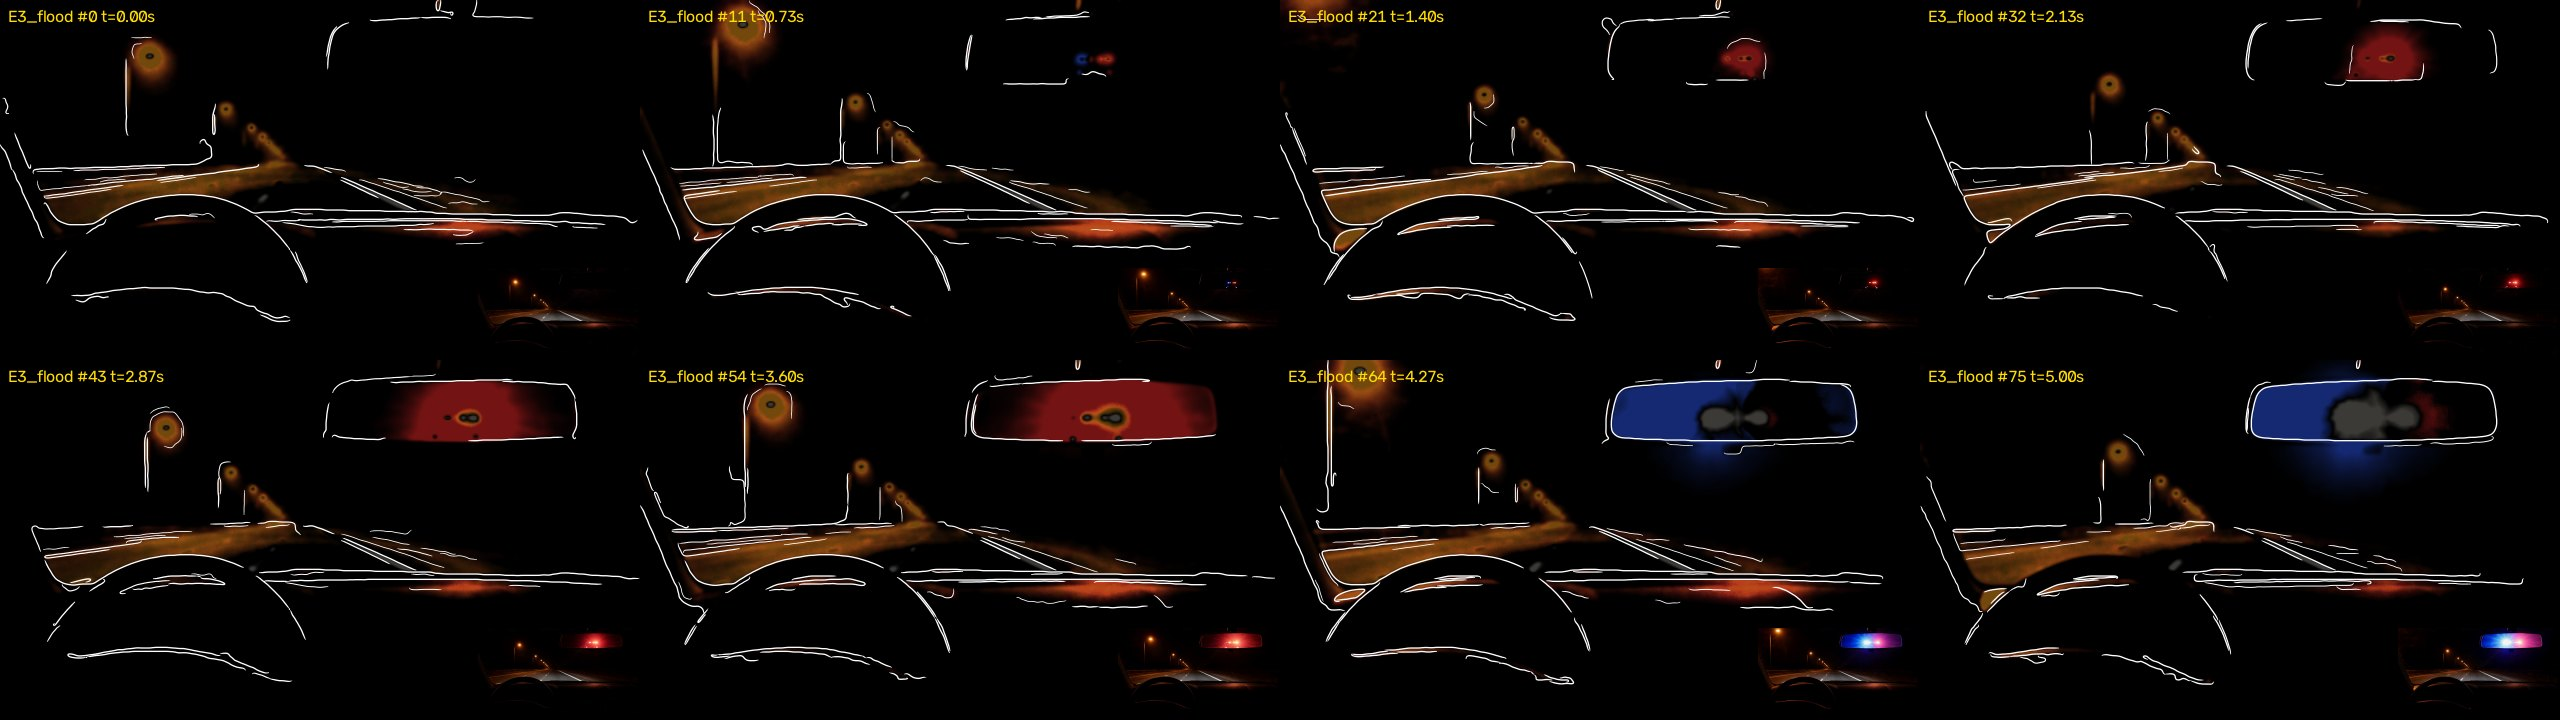
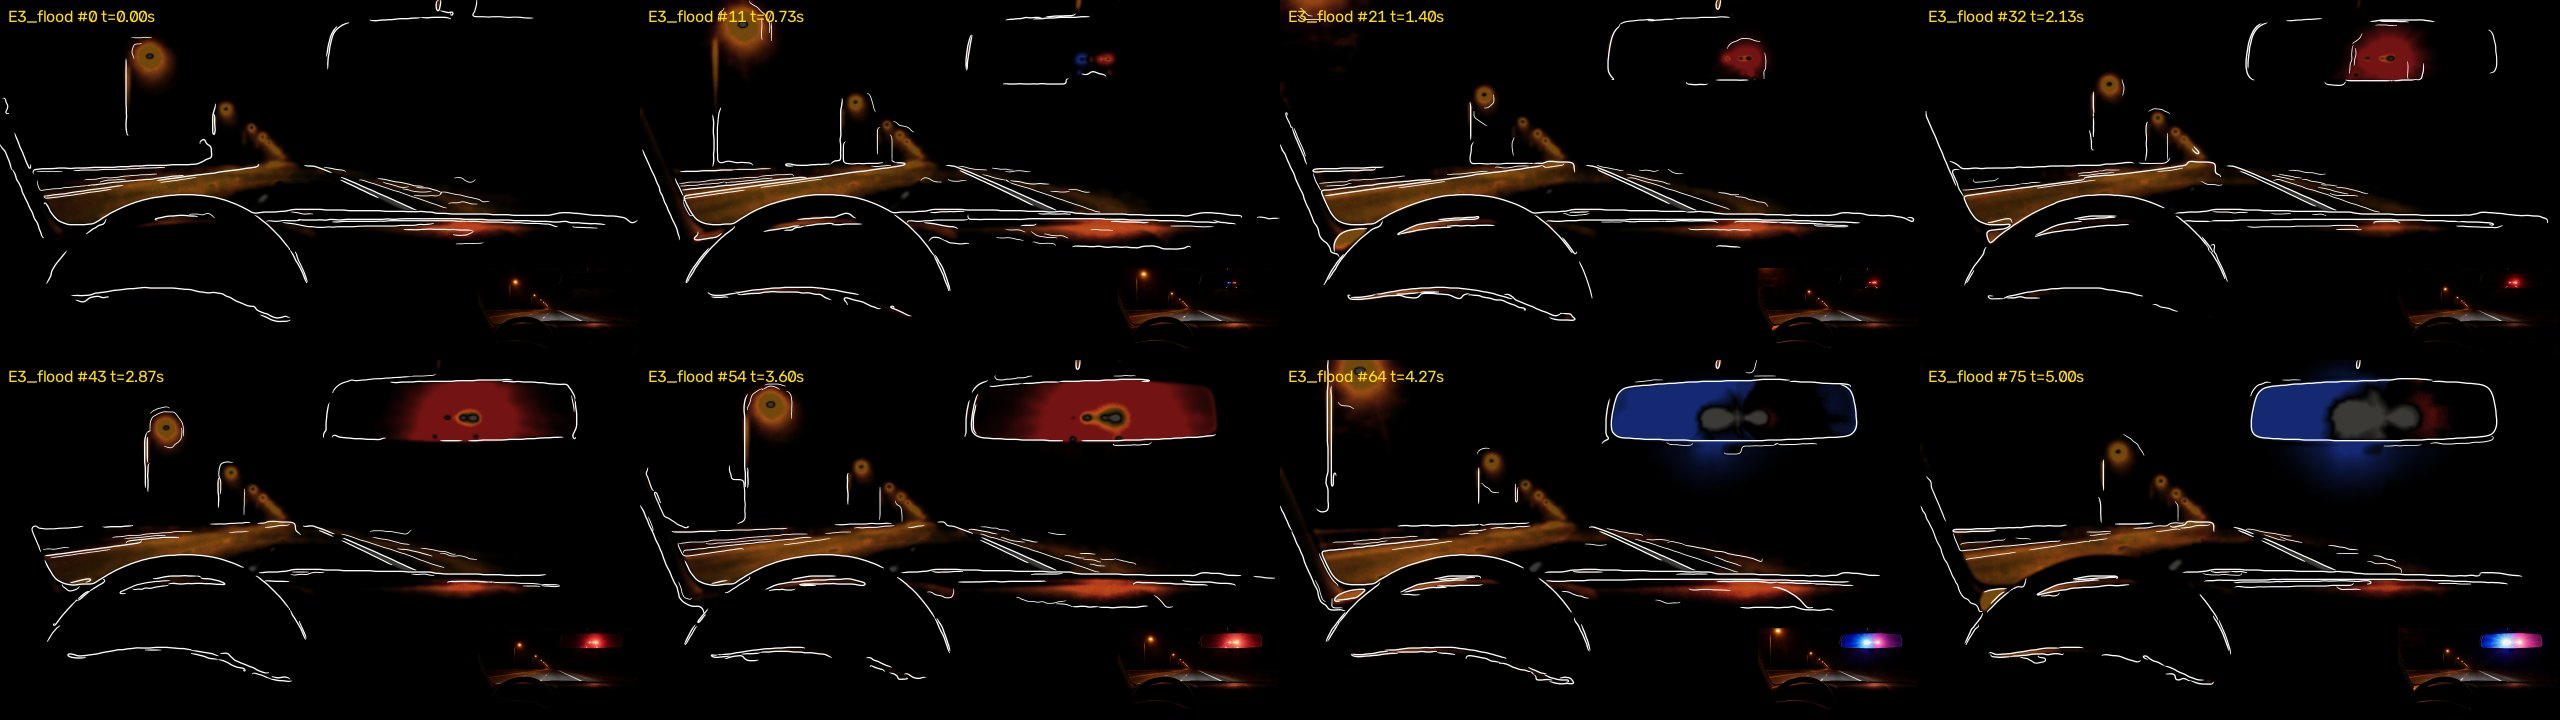
Jade first frames (real-face paste-back), J1/J6 test clips, lipsync findings
Claude-Session: https://claude.ai/code/session_01QH8JxH6iaaco1ynhTZZBdC

diff --git a/render/src/shots.js b/render/src/shots.js
@@ -57,6 +57,7 @@ export function buildShots(T) {
   // H4: aerial LSD self-drawing as one pen stroke; THEOREM / PROOF
   C('H4_theorem', db(5), v1, [ink,
     { type: 'world', roto: R.aerial, alpha: 0.5, lights: 0.4, cam: { from: [0.5, 0.5, 1.0], to: [0.48, 0.55, 1.12] } },
+    { type: 'car', roto: R.aerial, view: 'chase', lights: 'tail', cam: { from: [0.5, 0.5, 1.0], to: [0.48, 0.55, 1.12] }, offset: 4 },
     { type: 'pathdraw', progress: e => easeInOutCubic(e.u), width: 5 },
     { type: 'cm', lead: 'Theorem.', text: 'She makes it home.', x: 420, y: 520, size: 112 },
     { type: 'cm', lead: 'Proof.', text: 'By exhaustion.', x: 420, y: 690, size: 112, at: 1.4 },
@@ -94,6 +95,8 @@ export function buildShots(T) {
   ], { hud: hud(1, 0.0), fx: { heart: 0.3 } });
   C('B2_pullover', L(3).start, T.beatBefore(men), [ink,
     { type: 'world', roto: R.pull, alpha: 1, lights: 1, cam: { from: [0.45, 0.6, 1.0], to: [0.42, 0.66, 1.35], ease: easeOutCubic } },
+    { type: 'car', roto: R.pull, view: 'side', lights: 'brake', rot: -0.35, cam: { from: [0.45, 0.6, 1.0], to: [0.42, 0.66, 1.35], ease: easeOutCubic } },
+    { type: 'car', when: e => !String(e.shot.params.layers[1].roto).startsWith('Epull'), view: 'side', lights: 'brake', rot: -0.33, x: e => lerp(820, 760, easeOutCubic(e.u)), y: e => lerp(820, 880, easeOutCubic(e.u)), w: e => lerp(420, 560, easeOutCubic(e.u)) },
     { type: 'sirens', side: 'pair', base: 0.15, peak: 0.35 },
     { type: 'annotation', n: 1, move: 'pull over', nag: '?!', x: 150, y: 960, size: 56, at: 0.3 },
     { type: 'tree', seed: 7, depth: 4, x: 1420, y: 340, w: 380, h: 300, progress: e => 0.25 * e.u, leafSize: 30, onType: true, alpha: 0.9 },
@@ -319,7 +322,8 @@ export function buildShots(T) {
   C('N3_collapse', n3, n4, [ink, { type: 'collapse', n: 1100, progress: e => smooth(0.05, 0.9, e.u) }, { type: 'kickflash', color: PAL.bone, amount: 0.25 }],
     { hud: { attempt: 3, ok: true, tc: true, eval: t => lerp(5, 40, clamp((t - n3) / (n4 - n3))) }, fx: { kick: 1, strobe: 0.5 } });
   // N4: aerial, brighter and short: her light draws the winning line; the ghost cars of attempts 1/2 peel off and dissolve
-  C('N4_aerial', n4, n5, [ink, { type: 'world', roto: R.aerial, alpha: 1, lights: 0.55, cam: { from: [0.5, 0.5, 1.15], to: [0.5, 0.52, 1.0] } },
+  C('N4_aerial', n4, n5, [ink, { type: 'world', roto: R.aerial, alpha: 1, lights: 0.55, cam: { from: [0.5, 0.5, 1.15], to: [0.5, 0.52, 1.0] }, offset: 2.5 },
+    { type: 'car', roto: R.aerial, view: 'chase', lights: 'tail', trail: true, cam: { from: [0.5, 0.5, 1.15], to: [0.5, 0.52, 1.0] }, offset: 2.5 },
     { type: 'pathdraw', progress: e => e.u, width: 9, color: PAL.cyan },
     { type: 'ghostcar', x: e => lerp(820, 300, e.u), y: e => lerp(420, 980, e.u), scale: e => lerp(0.3, 0.8, e.u), alpha: e => 0.95 * (1 - e.u), color: PAL.red },
     { type: 'ghostcar', x: e => lerp(900, 1500, e.u), y: e => lerp(420, 1000, e.u), scale: e => lerp(0.3, 0.8, e.u), alpha: e => 0.95 * (1 - e.u), color: PAL.bone }],
@@ -327,7 +331,8 @@ export function buildShots(T) {
   // N5: pure road, pure speed; the HUD falls away; inserts every other bar
   C('N5_speed', n5, n6, lane({ words: ['I', 'DREAMT'] }), { hud: { attempt: 3, ok: true, tc: true, eval: Infinity, alpha: 1 }, fx: drive });
   ['pages', 'jade', 'scale', 'jade'].forEach((k, j) => C(`N5_${k}${j}`, DB(17 + 2 * j), DB(18 + 2 * j), insert(k, j), { hud: j < 2 ? { attempt: 3, ok: true, eval: Infinity } : null, fx: drive }));
-  C('N6_lake', n6, qed, [ink, { type: 'world', roto: R.aerial, alpha: 1, lights: 0.5, cam: { from: [0.45, 0.6, 1.5], to: [0.5, 0.5, 0.82] } },
+  C('N6_lake', n6, qed, [ink, { type: 'world', roto: R.aerial, alpha: 1, lights: 0.5, cam: { from: [0.45, 0.6, 1.5], to: [0.5, 0.5, 0.82] }, loop: false },
+    { type: 'car', roto: R.aerial, view: 'chase', lights: 'tail', trail: true, cam: { from: [0.45, 0.6, 1.5], to: [0.5, 0.5, 0.82] }, loop: false },
     { type: 'tree', seed: 7, depth: 4, progress: 1, lit: 1, alpha: 0.6, x: 180, y: 560, w: 1560, h: 980, litColor: PAL.cyan },
     { type: 'pathdraw', progress: 1, width: 9, head: false, color: PAL.cyan }], { fx: { kick: 0.5, heart: 0.2, downInvert: 2, jerks: [ev('braam', 8)] } });
   C('N7_qed', qed, end, [{ type: 'qedpage' }], { fx: { heart: 0.15, jerks: [qed] } }, { post: { bloom: 0, vignette: 0.12 } });

diff --git a/render/src/car.js b/render/src/car.js
@@ -1,0 +1,57 @@
+// car.js: her car, a white 2001 Acura TL, drawn from the assets/car kit (6 views of unit-box polylines + clip tracks).
+// The Seedance car is erased (dilated track bbox filled with ink) and ours is drawn on top: steady body silhouette,
+// lighter boil on detail strokes, siren-red tail lights with glow, cold-white headlights.
+import { DW, DH, PAL, clamp, hash, hsig, rgba } from './core.js';
+
+const ROOT = '../assets/car';
+const VIEWS = ['chase', 'rear34', 'rear', 'side', 'front34', 'top'];
+const K = { views: {}, tracks: {} };
+
+export async function load() {
+  await Promise.all(VIEWS.map(async v => { try { const r = await fetch(`${ROOT}/${v}/contours.json`); if (r.ok) K.views[v] = await r.json(); } catch (e) { /* kit missing */ } }));
+  await Promise.all(['E1', 'Epull'].map(async c => { try { const r = await fetch(`${ROOT}/tracks/${c}.json`); if (r.ok) K.tracks[c] = await r.json(); } catch (e) { /* none */ } }));
+  return K;
+}
+export const has = v => !!K.views[v];
+export function trackFor(rotoId) { const base = String(rotoId || '').replace(/^_auto\//, '').replace(/^plate_.*/, ''); return K.tracks[base] || null; }
+
+// bbox (design px) of the tracked car at clip time ct, mapped through the world's camera rect (source 1280x720)
+export function trackBox(track, ct, rect) {
+  const fr = track.frames, f = Math.max(0, Math.min(fr.length - 1, Math.round(ct * (track.fps || 24))));
+  let e = fr[f]; if (!e || !e.visible) return null;
+  const [sw, sh] = track.size || [1280, 720], b = e.bbox.slice();
+  if (track === K.tracks.Epull && f <= 20) { b[1] -= 40; b[3] -= 40; }   // known lock on the wet-road reflection
+  return { x0: rect.x + b[0] / sw * rect.w, y0: rect.y + b[1] / sh * rect.h, x1: rect.x + b[2] / sw * rect.w, y1: rect.y + b[3] / sh * rect.h };
+}
+
+// draw a view so its extent fits width w, bottom-centre at (cx, by). o: {color, alpha, seed, outline (ghost), lights:'tail'|'head'|'brake'|null, rot, minimal, fill}
+export function drawView(g, view, cx, by, w, o = {}) {
+  const V = K.views[view]; if (!V) return false;
+  const s = w / V.extent[0], ax = V.anchor_ground_center[0], ay = V.anchor_ground_center[1];
+  const col = o.color || PAL.bone, a = o.alpha ?? 1, seed = o.seed ?? 0, minimal = o.minimal ?? (w < 90);
+  g.save(); g.translate(cx, by); if (o.rot) g.rotate(o.rot); g.translate(-ax * s, -ay * s);
+  g.lineJoin = 'round'; g.lineCap = 'round';
+  const path = (pts, jit, k) => { g.beginPath(); pts.forEach((p, i) => { const jx = jit ? hsig(seed, k, i) * jit : 0, jy = jit ? hsig(seed, k, i, 7) * jit : 0; const x = p[0] * s + jx, y = p[1] * s + jy; i ? g.lineTo(x, y) : g.moveTo(x, y); }); };
+  const F = V.features;
+  // faint white-paint fill so the car reads as WHITE against the ink
+  const body = F.find(f => f.type === 'body');
+  if (body && !o.outline) { path(body.pts, 0, 0); g.closePath(); g.fillStyle = rgba(col, (o.fill ?? 0.1) * a); g.fill(); }
+  F.forEach((f, k) => {
+    const t = f.type;
+    if (minimal && !(t === 'body' || t === 'taillight' || t === 'window')) return;
+    if (t === 'taillight' || t === 'headlight') {
+      const lit = (t === 'taillight' && (o.lights === 'tail' || o.lights === 'brake')) || (t === 'headlight' && o.lights === 'head');
+      path(f.pts, 0, k); if (f.closed) g.closePath();
+      if (lit && !o.outline) {
+        g.save(); g.fillStyle = t === 'taillight' ? PAL.red : '#F4F1EA'; g.shadowColor = g.fillStyle; g.shadowBlur = Math.max(6, w * 0.06) * (o.lights === 'brake' ? 1.6 : 1); g.globalAlpha = a; g.fill(); g.restore();
+      } else { g.strokeStyle = rgba(o.outline ? col : (t === 'taillight' ? PAL.red : col), a); g.lineWidth = Math.max(1.5, w * 0.006); g.stroke(); }
+      return;
+    }
+    const isDetail = t === 'detail' || t === 'lower_dark';
+    path(f.pts, isDetail ? 0.6 : 0.15, k); if (f.closed) g.closePath();
+    g.strokeStyle = rgba(col, a * (isDetail ? 0.5 : 1)); g.lineWidth = Math.max(1.5, w * (t === 'body' ? 0.009 : 0.006)) * (o.outline ? 1.2 : 1);
+    g.stroke();
+  });
+  g.restore();
+  return true;
+}

diff --git a/render/src/layers.js b/render/src/layers.js
@@ -7,6 +7,7 @@ import { page as pageType, slam, subtitle, redact, redactedLine, revisions, setF
 import * as V from './slams.js';
 import { searchTree, buildTree, glyph, evalBar, annotation } from './hud.js';
 import { sirens, sodiumSweep, sodiumWash, rain, bullet, headlights, fillInk } from './fx.js';
+import * as CAR from './car.js';
 
 export const A = (v, env, d) => (typeof v === 'function' ? v(env) : v ?? d);
 
@@ -445,6 +446,7 @@ Object.assign(LAYERS, {
   // an outline car (rear 3/4): the ghost of an earlier attempt
   ghostcar(ctx, L, env) {
     const g = ctx.g, x = A(L.x, env, 960), y = A(L.y, env, 600), s = A(L.scale, env, 1), a = A(L.alpha, env, 0.9);
+    if (CAR.has('rear')) { CAR.drawView(g, 'rear', x, y + 40 * s, 400 * s, { color: L.color || PAL.cyan, alpha: a, outline: true, lights: null, seed: Math.floor(env.lt * 10) }); return; }
     g.save(); g.translate(x, y); g.scale(s, s); g.strokeStyle = rgba(L.color || PAL.cyan, a); g.lineWidth = 4; g.lineJoin = 'round';
     g.beginPath(); g.moveTo(-200, 40); g.lineTo(-190, -20); g.lineTo(-120, -40); g.lineTo(-80, -100); g.lineTo(80, -100); g.lineTo(120, -40); g.lineTo(190, -20); g.lineTo(200, 40); g.closePath(); g.stroke();
     g.beginPath(); g.moveTo(-70, -90); g.lineTo(70, -90); g.lineTo(100, -45); g.lineTo(-100, -45); g.closePath(); g.stroke();
@@ -547,6 +549,23 @@ Object.assign(LAYERS, {
     setFont(ty, F.mono(240, 700)); ty.textAlign = 'right'; ty.fillText('∎', 1770, 790);
     ty.fillRect(150, 900, 540, 2); setFont(ty, F.cmu(36)); ty.textAlign = 'left'; ty.fillStyle = PAL.ink; ty.fillText('³ attempts 01, 02: terminated. attempt 03: line found.', 150, 960);
     ty.restore();
+  },
+});
+Object.assign(LAYERS, {
+  // her car (white 2001 Acura TL) from the car kit. Tracked: give the same roto/cam/speed/offset/loop as the world layer;
+  // the clip's track (assets/car/tracks/<clip>.json) places it and the Seedance car underneath is erased with ink.
+  // Untracked: {x, y (ground point), w}. view: chase|rear34|rear|side|front34|top
+  car(ctx, L, env, { roto }) {
+    const g = ctx.g; let cx, by, w;
+    if (L.roto) {
+      const id = L.roto, tr = CAR.trackFor(id); if (!tr || !roto.meta(id)) return;
+      const ct = roto.clipTime(id, env.lt, { speed: A(L.speed, env, 1), offset: A(L.offset, env, 0), loop: L.loop ?? true });
+      const b = CAR.trackBox(tr, ct, camRect(L.cam, env)); if (!b) return;
+      const pad = (b.x1 - b.x0) * 0.25; g.fillStyle = PAL.ink; g.fillRect(b.x0 - pad, b.y0 - pad, b.x1 - b.x0 + 2 * pad, b.y1 - b.y0 + 2 * pad);
+      cx = (b.x0 + b.x1) / 2; by = b.y1; w = (b.x1 - b.x0) * (L.wScale ?? 1);
+    } else { cx = A(L.x, env, 960); by = A(L.y, env, 800); w = A(L.w, env, 500); }
+    CAR.drawView(g, L.view || 'chase', cx, by, w, { color: L.color, alpha: A(L.alpha, env, 1), seed: Math.floor(env.lt * 10), lights: L.lights ?? 'tail', rot: L.rot, outline: L.outline, fill: L.fill });
+    if (L.trail) { g.save(); g.globalCompositeOperation = 'lighter'; headlights(g, cx, by - w * 0.2, w * 0.9, 0.25, PAL.red); g.restore(); }
   },
 });
 const TREES = new Map();

diff --git a/render/src/engine.js b/render/src/engine.js
@@ -14,6 +14,7 @@ import { SCENES } from './scenes/index.js';
 import { applyRhythm, skipAt } from './rhythm.js';
 import { hudOverlay } from './hud.js';
 import { drawLayers } from './layers.js';
+import * as CAR from './car.js';
 
 const Q = new URLSearchParams(location.search);
 export const W = +(Q.get('w') || 1920), H = +(Q.get('h') || 1080), S = H / DH;
@@ -166,6 +167,7 @@ export async function boot() {
   const which = Q.get('shots') || 'main';
   E.T = await TimeMap.load('..');
   await loadFonts();
+  await CAR.load();
   const mod = await import(which === 'main' ? './shots.js' : `./shots.${which}.js`);
   E.shots = mod.buildShots(E.T).map(s => ({ params: {}, ...s, t0: fin(s.t0), t1: fin(s.t1) })).sort((a, b) => a.t0 - b.t0);
   const ids = new Set();

diff --git a/docs/LIKENESS_RULES.md b/docs/LIKENESS_RULES.md
@@ -47,3 +47,7 @@ with the real photos as reference_images. Generated character sheets are backup 
 ## Approval state (2026-10-02 night)
 User: "yes, generate the shots but don't animate them all just yet." → all Jade first-frame stills OK; max 2 validation
 animations (J1, J6). Everything else waits for morning review.
+- VIDEO FINDING: Seedance shrinks her eyes progressively within a clip (iris −7..−19%). So the redraw uses footage
+  landmarks only as anchors/pose; eyes/brows/crease are drawn from the canonical real-photo template. Mouth from the
+  vocal stem. Seedance lip-sync leads by a constant ~0.29 s (cut reference audio to start at the first sung word, or
+  shift video +0.29 s). Seedance needs use_virtual_avatar:true for her face (else error 7003).
